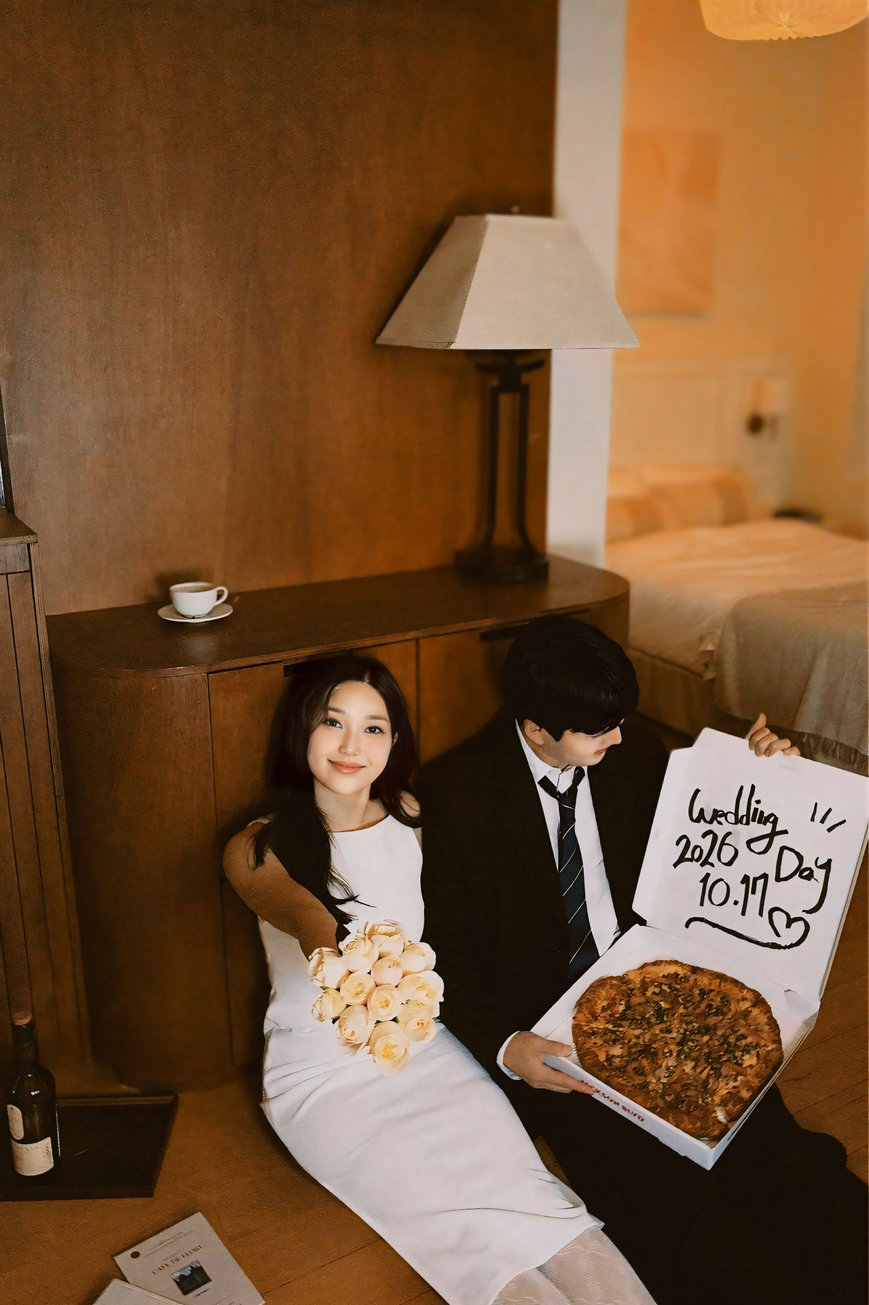
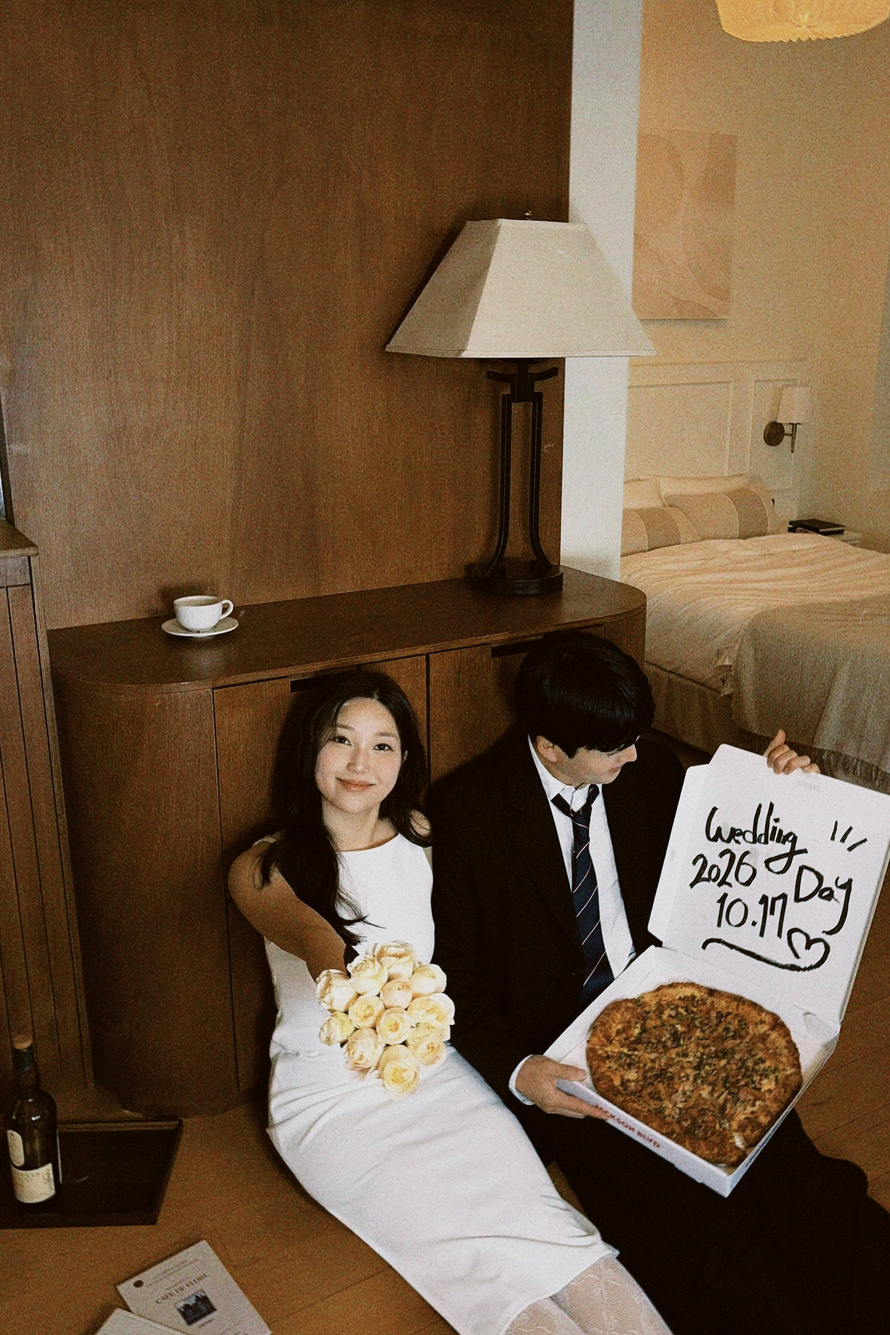
fix: resolve image extension issues and build failure

diff --git a/src/components/Gallery.tsx b/src/components/Gallery.tsx
@@ -2,8 +2,8 @@ import React, { useState, useRef, useCallback } from 'react';
 import { createPortal } from 'react-dom';
 import { ChevronDown, ChevronUp, ChevronLeft, ChevronRight } from 'lucide-react';
 
-import img1 from '../assets/wedding-snap/1.JPG';
-import img2 from '../assets/wedding-snap/2.JPG';
+import img1 from '../assets/wedding-snap/1.JPEG';
+import img2 from '../assets/wedding-snap/2.JPEG';
 import img3 from '../assets/wedding-snap/3.jpg';
 import img4 from '../assets/wedding-snap/4.jpg';
 import img5 from '../assets/wedding-snap/5.jpg';
@@ -12,7 +12,7 @@ import img7 from '../assets/wedding-snap/7.jpg';
 import img8 from '../assets/wedding-snap/8.JPG';
 import img9 from '../assets/wedding-snap/9.jpg';
 import img10 from '../assets/wedding-snap/10.jpg';
-import img11 from '../assets/wedding-snap/11.jpg';
+import img11 from '../assets/wedding-snap/11.JPEG';
 import img12 from '../assets/wedding-snap/12.jpg';
 import img13 from '../assets/wedding-snap/13.jpg';
 import img14 from '../assets/wedding-snap/14.jpg';

diff --git a/src/vite-env.d.ts b/src/vite-env.d.ts
@@ -5,6 +5,11 @@ declare module '*.JPG' {
   export default src
 }
 
+declare module '*.JPEG' {
+  const src: string
+  export default src
+}
+
 interface Window {
   Kakao: any;
 }
